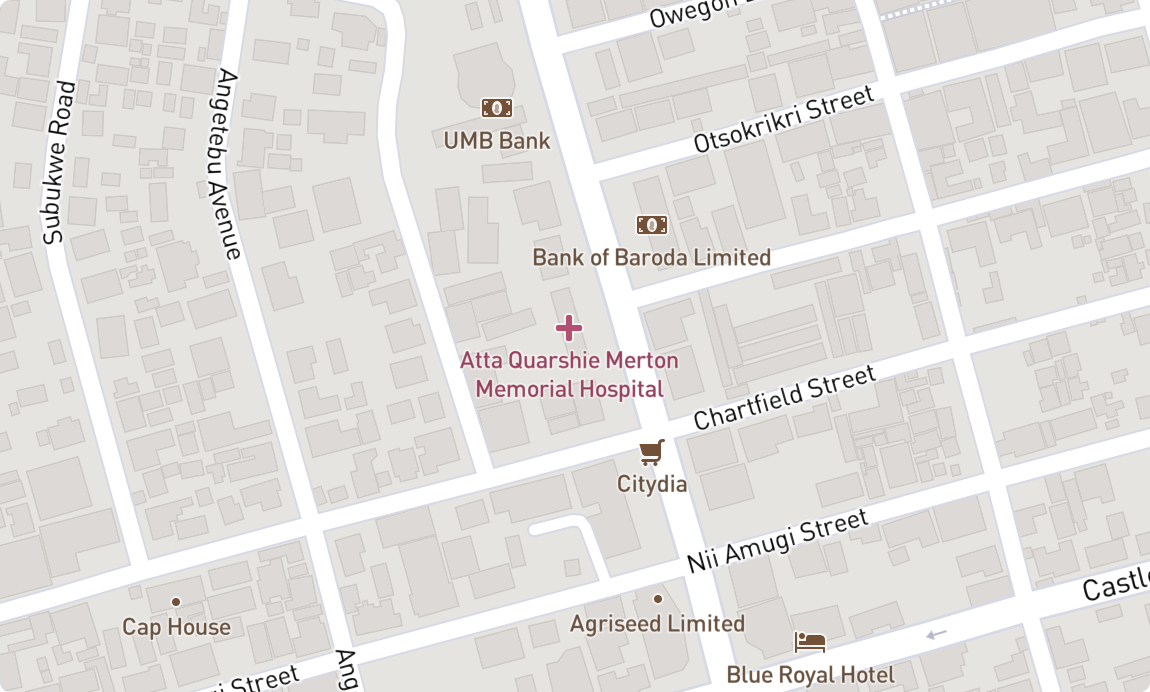
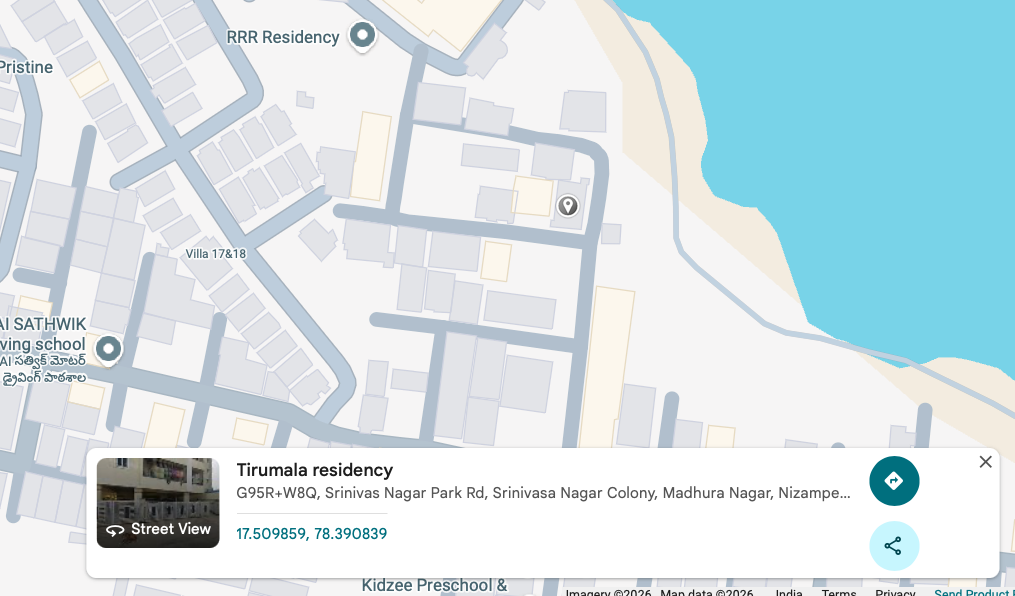
Code changed

diff --git a/index.html b/index.html
@@ -108,7 +108,7 @@
           <div class="who-we-are__left">
             <h2 class="heading-secondary u-margin-bottom-small">Who we are</h2>
             <p class="paragraph">
-              We are a well established construction company with over 20 years
+              We are a well established construction company with over 10 years
               experience. Specialising in the public and private sector, We
               strive to form close working relationships with clients and
               industry professionals to provide a full service that reflects
@@ -119,13 +119,13 @@
 
           <div class="who-we-are__right">
             <p class="who-we-are__paragraph paragraph">
-              <span class="emphasis">20</span>
+              <span class="emphasis">10</span>
               Years of Experience
             </p>
 
             <p class="who-we-are__paragraph paragraph">
-              <span class="emphasis">40+</span>
-              Clients all over the world
+              <span class="emphasis">1000+</span>
+              Clients all over the Andhra Pradesh ANd Telangana
             </p>
 
             <p class="who-we-are__paragraph paragraph">
@@ -330,13 +330,24 @@
                 Near Hanuman Temple, Srinivas Nagar, Nizampet Hyderabad
               </p>
 
-              <div class="contact-us__img-box">
+              <!-- <div class="contact-us__img-box">
                 <img
                   src="img/map-2x.png"
                   alt="Our Location"
                   class="contact-us__img"
                   srcset="img/map-1x.png 1x, img/map-2x.png 2x"
                 />
+              </div> -->
+                <div class="contact-us__img-box">
+                  <iframe
+                      class="contact-us__map"
+                      src="https://www.google.com/maps?q=17.509859,78.390839&z=16&output=embed"
+                      width="100%"
+                      height="450"
+                      style="border:0;"
+                      loading="lazy"
+                      allowfullscreen>
+                  </iframe>
               </div>
             </div>
           </div>
@@ -351,7 +362,7 @@
                     type="name"
                     name="name"
                     id="name"
-                    placeholder="Michael Mensah"
+                    placeholder="Name"
                     autocomplete="off"
                     required
                   />
@@ -364,7 +375,7 @@
                     type="email"
                     name="contact-email"
                     id="contact-email"
-                    placeholder="Micheal@example.com"
+                    placeholder="user@gmail.com"
                     autocomplete="off"
                     required
                   />

diff --git a/css/style.css b/css/style.css
@@ -862,6 +862,12 @@ body {
 .contact-us__img-box {
   width: 100%;
 }
+.contact-us__map{
+    width:100%;
+    height:450px;
+    border:none;
+    border-radius:12px;
+}
 @media only screen and (max-width: 75em) {
   .contact-us__img-box {
     width: 60%;
